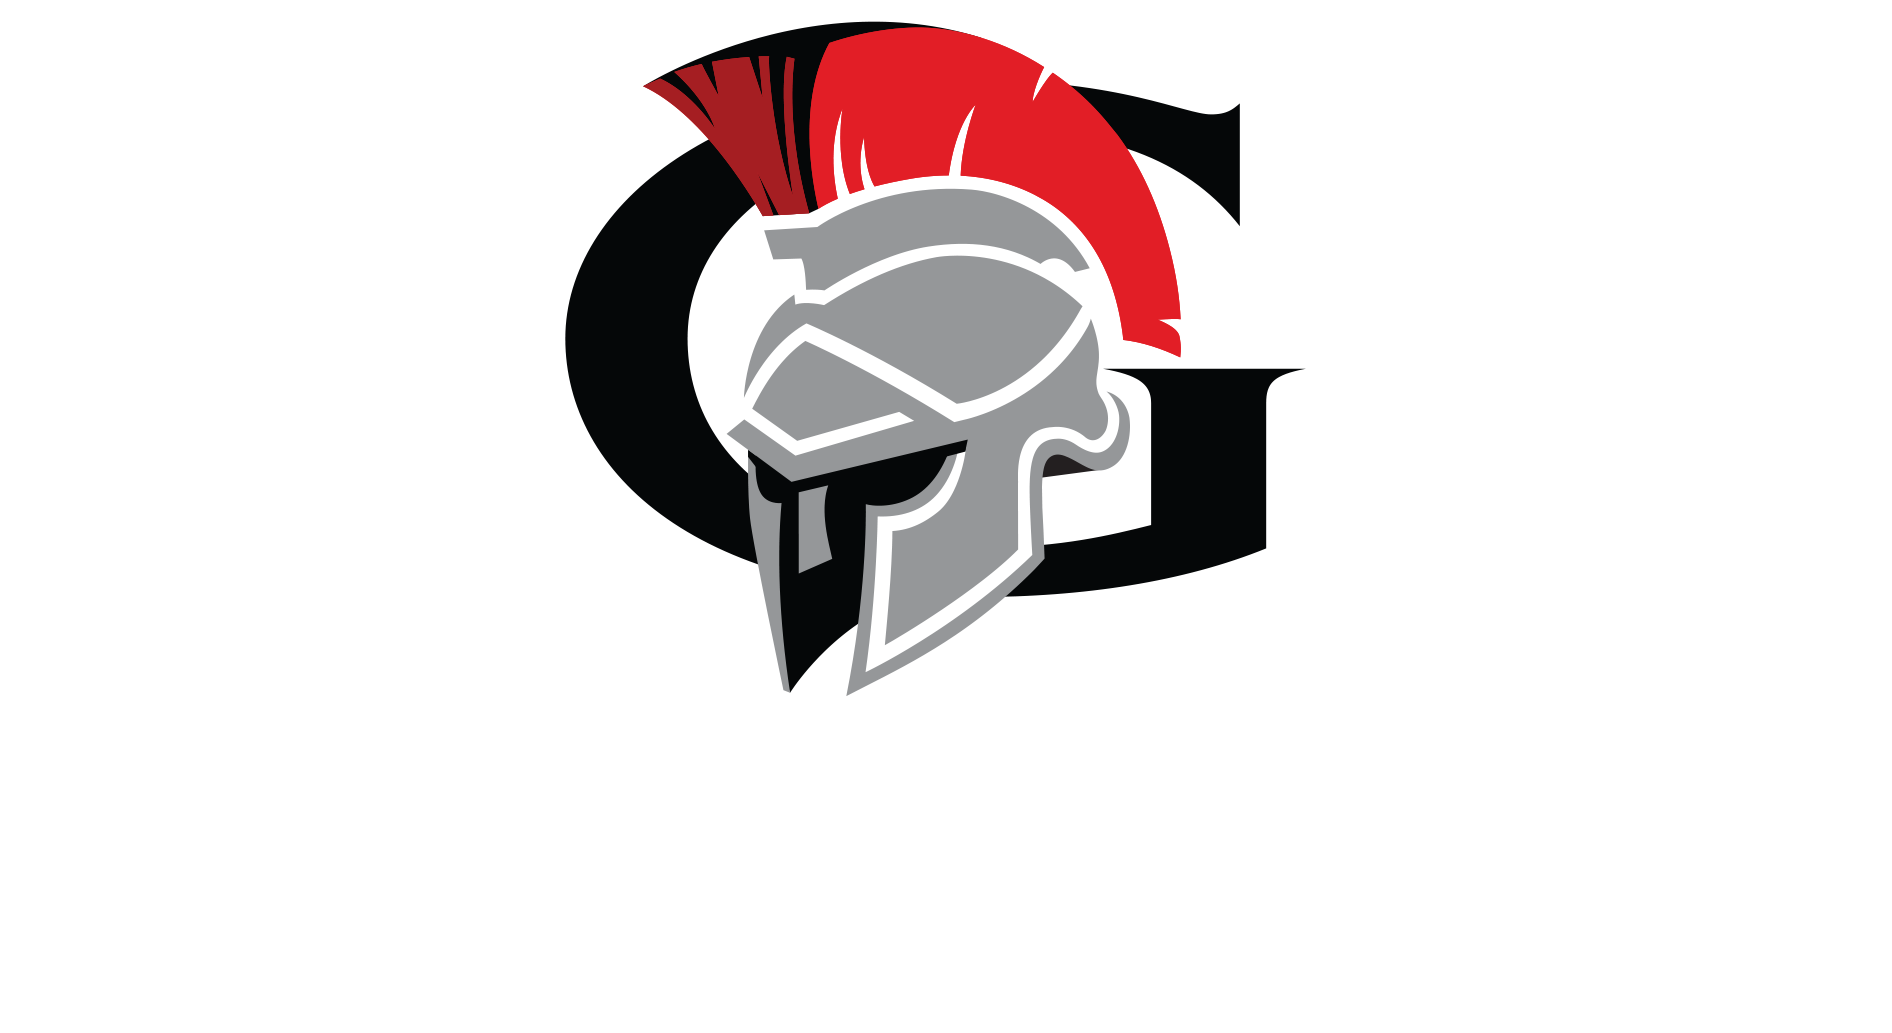
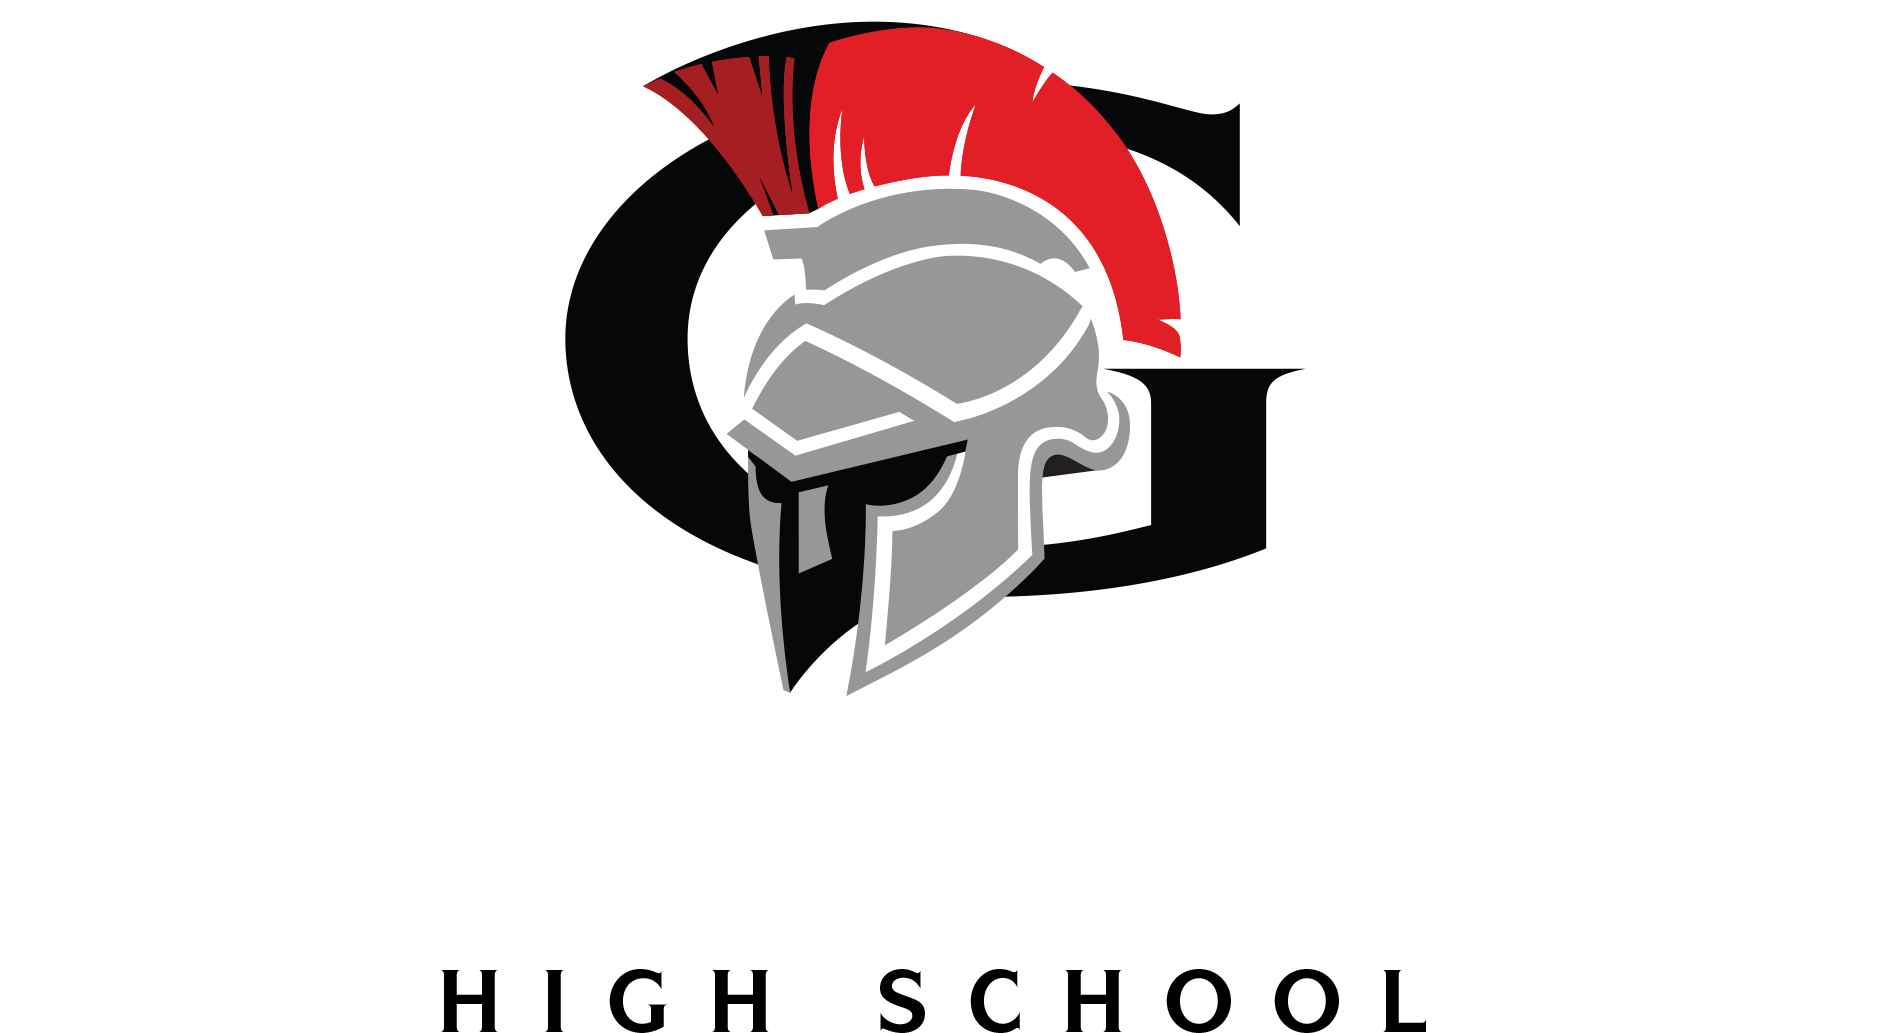
Update photos

Changed region(s): [[0.4678, 0.9293, 0.7796, 1.0], [0.2183, 0.9293, 0.4054, 1.0]]

diff --git a/custom-code/custom-header-override.css b/custom-code/custom-header-override.css
@@ -13,27 +13,62 @@
     background-color: rgb(215, 1, 0); /* --strawberry */
   }
 
-  .nav_public ul {
-    justify-content: flex-start;
-    padding-left: 30px;
+  @media (min-width: 1000px) {
+    .nav_public ul {
+      justify-content: center;
+      padding-left: 225px;
+    }
   }
-
 
   .azusa-home-introduction {
     top: 3em;
   }
+  .azusa-home-introduction h3 .lowercase {
+    font-style: italic;
+    font-weight: normal;
+    font-family: "Source Sans Pro", "Helvetica Neue", Helvetica, sans-serif;
+  }
 
   #container_header::after,
   #container_home_header::after {
-    background-image: url(images/gladstone-high-school.png);
+    background-image: url(images/gladstone-high-school-black.png);
+  }
+  #container_header::after {
+    background-image: url(images/gladstone-high-school-white.png);
   }
 
 
   #container_home_header {
-    background-image: url(images/campus/p1250025.jpg) !important;
+    background-image: url(images/four-students-2.png) !important;
+    background-repeat: no-repeat;
+    background-position: bottom !important;
+    background-size: auto 70% !important;
   }
+  #container_home_header,
+  .azusa-home-introduction {
+    height: 85vh !important;
+    min-height: 55vw;
+  }
+
+  #container_home_header::after {
+    bottom: auto;
+    left: 50%;
+    top: 2.25em;
+    width: 25vw;
+    height: 12.5vw;
+    transform: translateX(-50%);
+  }
+
   .azusa-students #container_home_header,
   .azusa-students #container_header {
+    background-image: url(images/campus/p1250025.jpg) !important;
+    background-position: center !important;
+  }
+
+  .azusa-about #container_header {
+    background-image: url(images/four-students-2.png) !important;
+    background-position: top !important;
+
     background-image: url(images/campus/p1250025.jpg) !important;
     background-position: center !important;
   }
@@ -87,55 +122,4 @@
 
     height: 55vh !important;
     min-height: 45vw;
-  }
-
-  .azusa-about #container_header {
-    background-image: url(images/kids.jpg) !important;
-    background-position: center !important;
-  }
-
-  .azusa-home-introduction {
-    justify-content: flex-end;
-    align-content: center;
-    align-items: flex-start;
-  }
-  #container_home_header::after {
-    top: 4vw;
-    left: 4vw;
-    width: 24vw;
-    height: 12vw;
-    min-width: 16em;
-    min-height: 8em;
-    transform: none;
-  }
-  .azusa-home-introduction h3 {
-    font-size: 6vw;
-    text-align: left;
-    margin: 0;
-    padding-left: 4vw;
-  }
-  .azusa-home-introduction p {
-    color: white;
-    text-align: left;
-    padding-left: 4vw;
-    max-width: 45em;
-    margin: 0.75em 0;
-  }
-  .azusa-home-introduction p a {
-    display: inline-block;
-    color: rgb(0, 174, 239) !important;
-    border: 2px solid;
-    border-radius: 1.5em;
-    padding: 0.75em 1.5em;
-
-    background: rgb(0, 174, 239);
-    color: white !important;
-    font-weight: bold;
-    text-shadow: none;
-    border-width: 0;
-  }
-  @media (max-aspect-ratio: 1/1) {
-    .azusa-home-introduction h3 {
-      font-size: 6vh;
-    }
   }

diff --git a/custom-code/custom-home.html b/custom-code/custom-home.html
@@ -4,11 +4,13 @@
 <h3 class="rte-heading azusa-home-video-link"><a href="/ourdistrict/">Dedicated <span class="lowercase">to</span> <span class="avoid-break">Academic Success</span></a></h3>
 -->
 
-<h3 class="rte-heading azusa-home-video-link"><a href="/ghsgeneralinformation/">Preparing Students for Success</a></h3>
+<h3 class="rte-heading azusa-home-video-link"><a href="/ghsgeneralinformation/">Preparing Students <span class="avoid-break"><span class="lowercase">for</span> Success</span></a></h3>
 
+<!--
 <p>Azusa Unified is a district that believes its children deserve the best education possible. Approximately 9,659 students attend Azusa Unified schools which include eleven elementary, three middle and three high schools, as well as an Alternative Education Center.</p>
 
 <p><a href="/ghsgeneralinformation/">Learn more about our district</a></p>
+-->
 
 <!--
 <p class="video azusa-home-video-link"><a href="http://links.schoolloop.com/link/rd?href=736c5f6c696e6b666630316363306562326668747470733a2f2f7777772e796f75747562652e636f6d2f77617463683f763d3364304a58714f76744b51">Play video</a></p>

diff --git a/index.html b/index.html
@@ -4220,7 +4220,7 @@ a.icon_block_delete:hover {background: #ffff99 url(/img/cms/icon_delete.gif) no-
 <h3 class="rte-heading azusa-home-video-link"><a href="/ourdistrict/">Dedicated <span class="lowercase">to</span> <span class="avoid-break">Academic Success</span></a></h3>
 -->
 
-<h3 class="rte-heading azusa-home-video-link"><a href="/ghsgeneralinformation/">Preparing Students <span class="avoid-break">for Success</span></a></h3>
+<h3 class="rte-heading azusa-home-video-link"><a href="/ghsgeneralinformation/">Preparing Students <span class="avoid-break"><span class="lowercase">for</span> Success</span></a></h3>
 
 <!--
 <p>Azusa Unified is a district that believes its children deserve the best education possible. Approximately 9,659 students attend Azusa Unified schools which include eleven elementary, three middle and three high schools, as well as an Alternative Education Center.</p>

diff --git a/custom-code/custom-header.css b/custom-code/custom-header.css
@@ -770,8 +770,9 @@
     left: 0;
     width: 100%;
     height: 100%;
-    background: linear-gradient(to top right, rgba(0, 0, 0, 0.25), transparent);
-    background: rgba(0, 0, 0, 0.25);
+    background: linear-gradient(to bottom, rgba(0, 0, 0, 0.25), transparent);
+    background: transparent;
+    background: linear-gradient(to top, rgba(0, 0, 0, 0.1), transparent);
   }
   #container_header::before {
     background: linear-gradient(to top right, rgba(0, 0, 0, 0.25), transparent);

diff --git a/custom-code/custom-header.js b/custom-code/custom-header.js
@@ -73,6 +73,8 @@
         return 'guidance';
       } else if (titleHas('Administration')) {
         return 'staff';
+      } else if (titleHas('Our School')) {
+        return 'about';
       } else if (titleHas(
                   'Activities',
                 )) {
